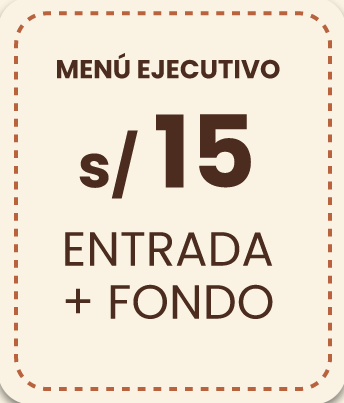
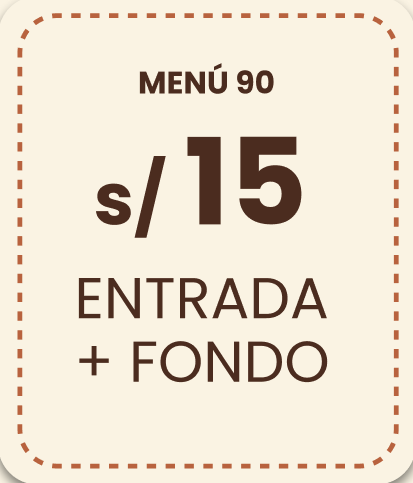
cambios en el landing

diff --git a/resources/views/web.blade.php b/resources/views/web.blade.php
@@ -50,8 +50,9 @@
 		}
 
 		.bannerSwiper {
+			top: 24px;
 			width: 100%;
-			height: 50rem;
+			aspect-ratio: 17 / 7;
 			margin-bottom: -30px;
 
 		}
@@ -73,7 +74,7 @@
 
 		.franjas-colores-center {
 			position: absolute;
-			top: -110px;
+			top: -85px;
 			left: 50%;
 			transform: translateX(-50%);
 			height: 100%;
@@ -152,14 +153,14 @@
 			display: flex;
 			flex-direction: row;
 			position:relative;
-			top:0px;
+			top:26px;
 			z-index: 10;
 		}
 
 		.franjav {
 			width: 100%;
 			position: absolute;
-			margin-top:0px;
+			margin-top:-1px;
 		}
 
 		.franjav.rojo { 
@@ -1076,7 +1077,7 @@
 				<div class="cartaSwiper-wrapper">
 					<div class="swiper cartaSwiper">
 						<div class="d-flex justify-content-between align-items-center mb-2 ">
-							<h2 class="titulo-seccion m-0">Caldos</h2>
+							<h2 class="titulo-seccion m-0">Sopas</h2>
 							<a href="javascript:void(0);" id="btn-ver-caldos" class="btn-ver-todo">VER TODO</a>
 						</div>
 						<div class="swiper-wrapper">
@@ -1105,7 +1106,7 @@
 				<div class="cartaSwiper-wrapper">
 					<div class="swiper cartaSwiper">
 						<div class="d-flex justify-content-between align-items-center mb-2">
-							<h2 class="titulo-seccion m-0">Desayunos</h2>
+							<h2 class="titulo-seccion m-0">Desayunos 90</h2>
 							<a href="javascript:void(0);" id="btn-ver-desayunos" class="btn-ver-todo">VER TODO</a>
 						</div>
 						<div class="swiper-wrapper">
@@ -1159,7 +1160,7 @@
 	<div id="popup-caldos" class="popup-carta-overlay">
 		<div class="popup-carta-content">
 			<div class="popup-carta-header d-flex justify-content-between align-items-center">
-				<h3 class="titulo-seccion m-0">CALDOS</h3>
+				<h3 class="titulo-seccion m-0">SOPAS</h3>
 				<button class="cerrar-popup-caldos">&times;</button>
 			</div>
 			<div class="popup-carta-scroll">
@@ -1182,7 +1183,7 @@
 	<div id="popup-desayunos" class="popup-carta-overlay">
 		<div class="popup-carta-content">
 			<div class="popup-carta-header d-flex justify-content-between align-items-center">
-				<h3 class="titulo-seccion m-0">DESAYUNOS</h3>
+				<h3 class="titulo-seccion m-0">DESAYUNOS 90</h3>
 				<button class="cerrar-popup-desayunos">&times;</button>
 			</div>
 			<div class="popup-carta-scroll">
@@ -1208,9 +1209,9 @@
 		<p class="mt-2">ESTACIÓN 90 ES UN VIAJE AL SABOR RETRO...</p>
 		<p>+51 913689664 | estacion90@gmail.com</p>
 		<p class="mb-0">Síguenos:
-			<i class="fab fa-facebook mx-1"></i>
-			<i class="fab fa-instagram mx-1"></i>
-			<i class="fab fa-youtube mx-1"></i>
+			<a href="https://www.facebook.com/estacion90restaurant" target="_blank"><i class="fab fa-facebook mx-1"></i></a>
+			<a href="https://www.instagram.com/estacion90restaurant" target="_blank"><i class="fab fa-instagram mx-1"></i></a>
+			<a href="https://www.tiktok.com/@estacion90restaurant" target="_blank"><i class="fab fa-youtube mx-1"></i></a>
 		</p>
 	</footer>
     <!--**********************************
@@ -1246,7 +1247,7 @@
 	<script>
 		const swiper = new Swiper(".bannerSwiper", {
 			slidesPerView: 2,
-			spaceBetween: 0,
+			spaceBetween: 80,
 			breakpoints: {
 				0: {
 					slidesPerView: 1,
